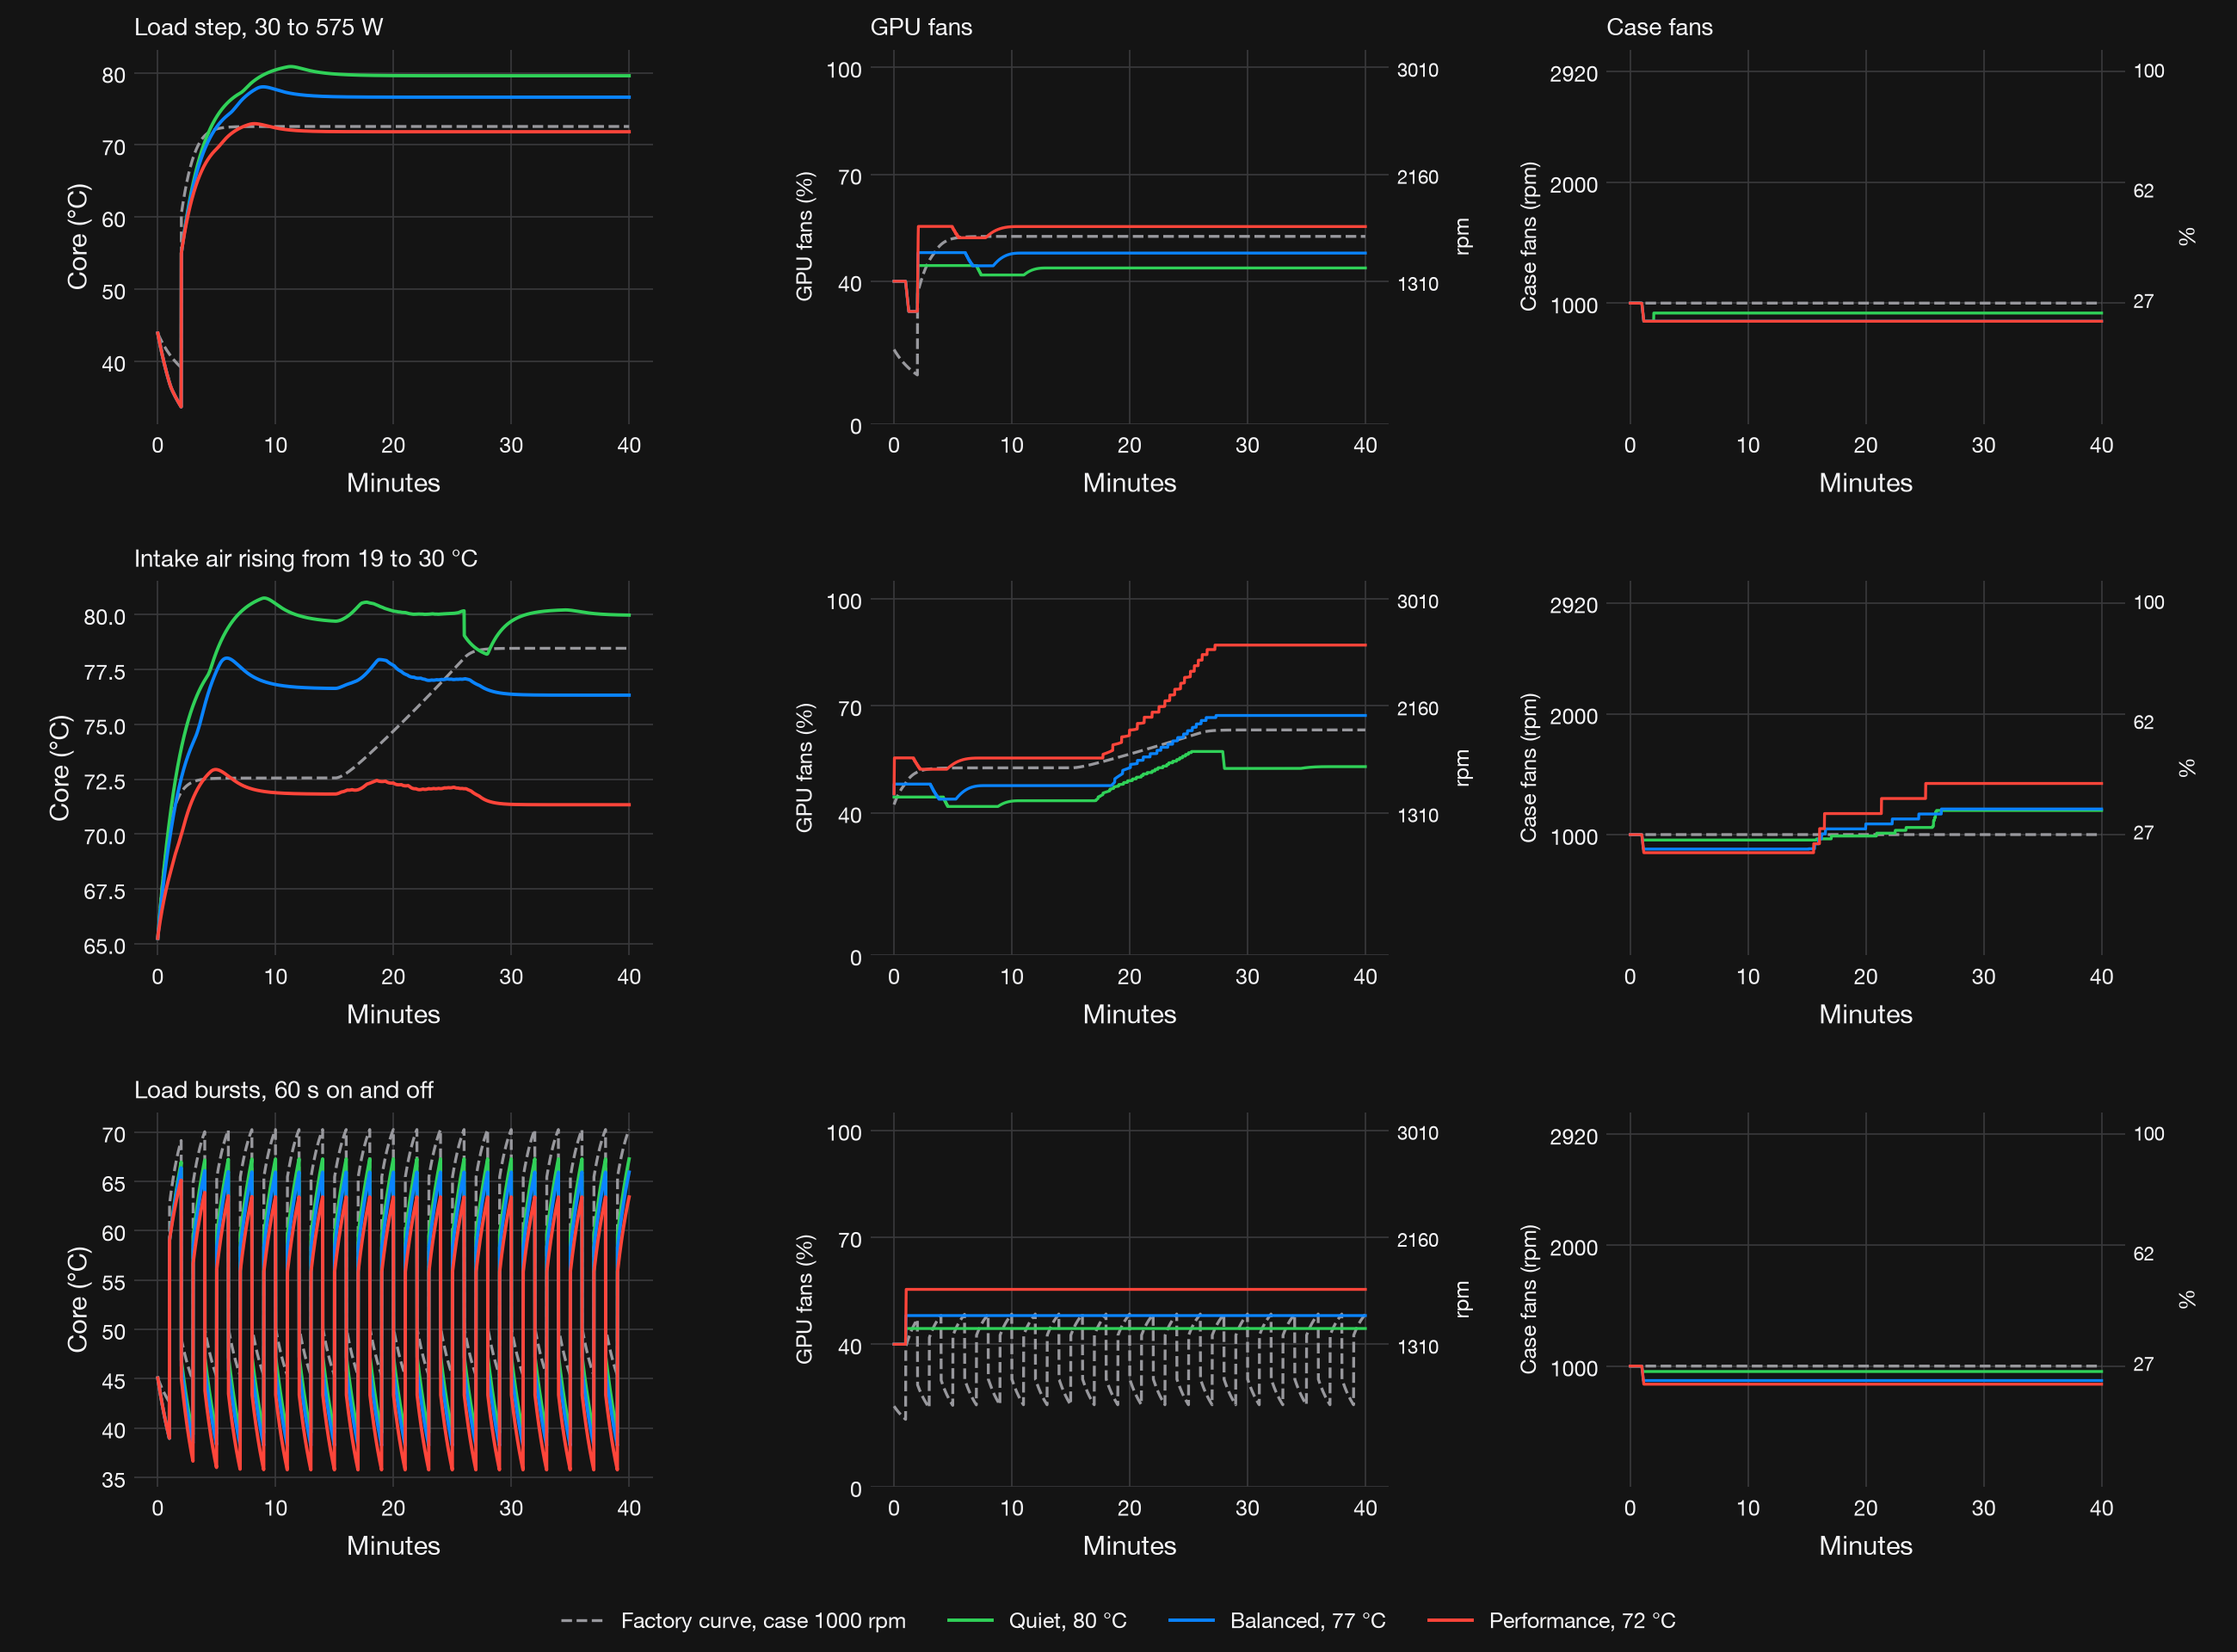
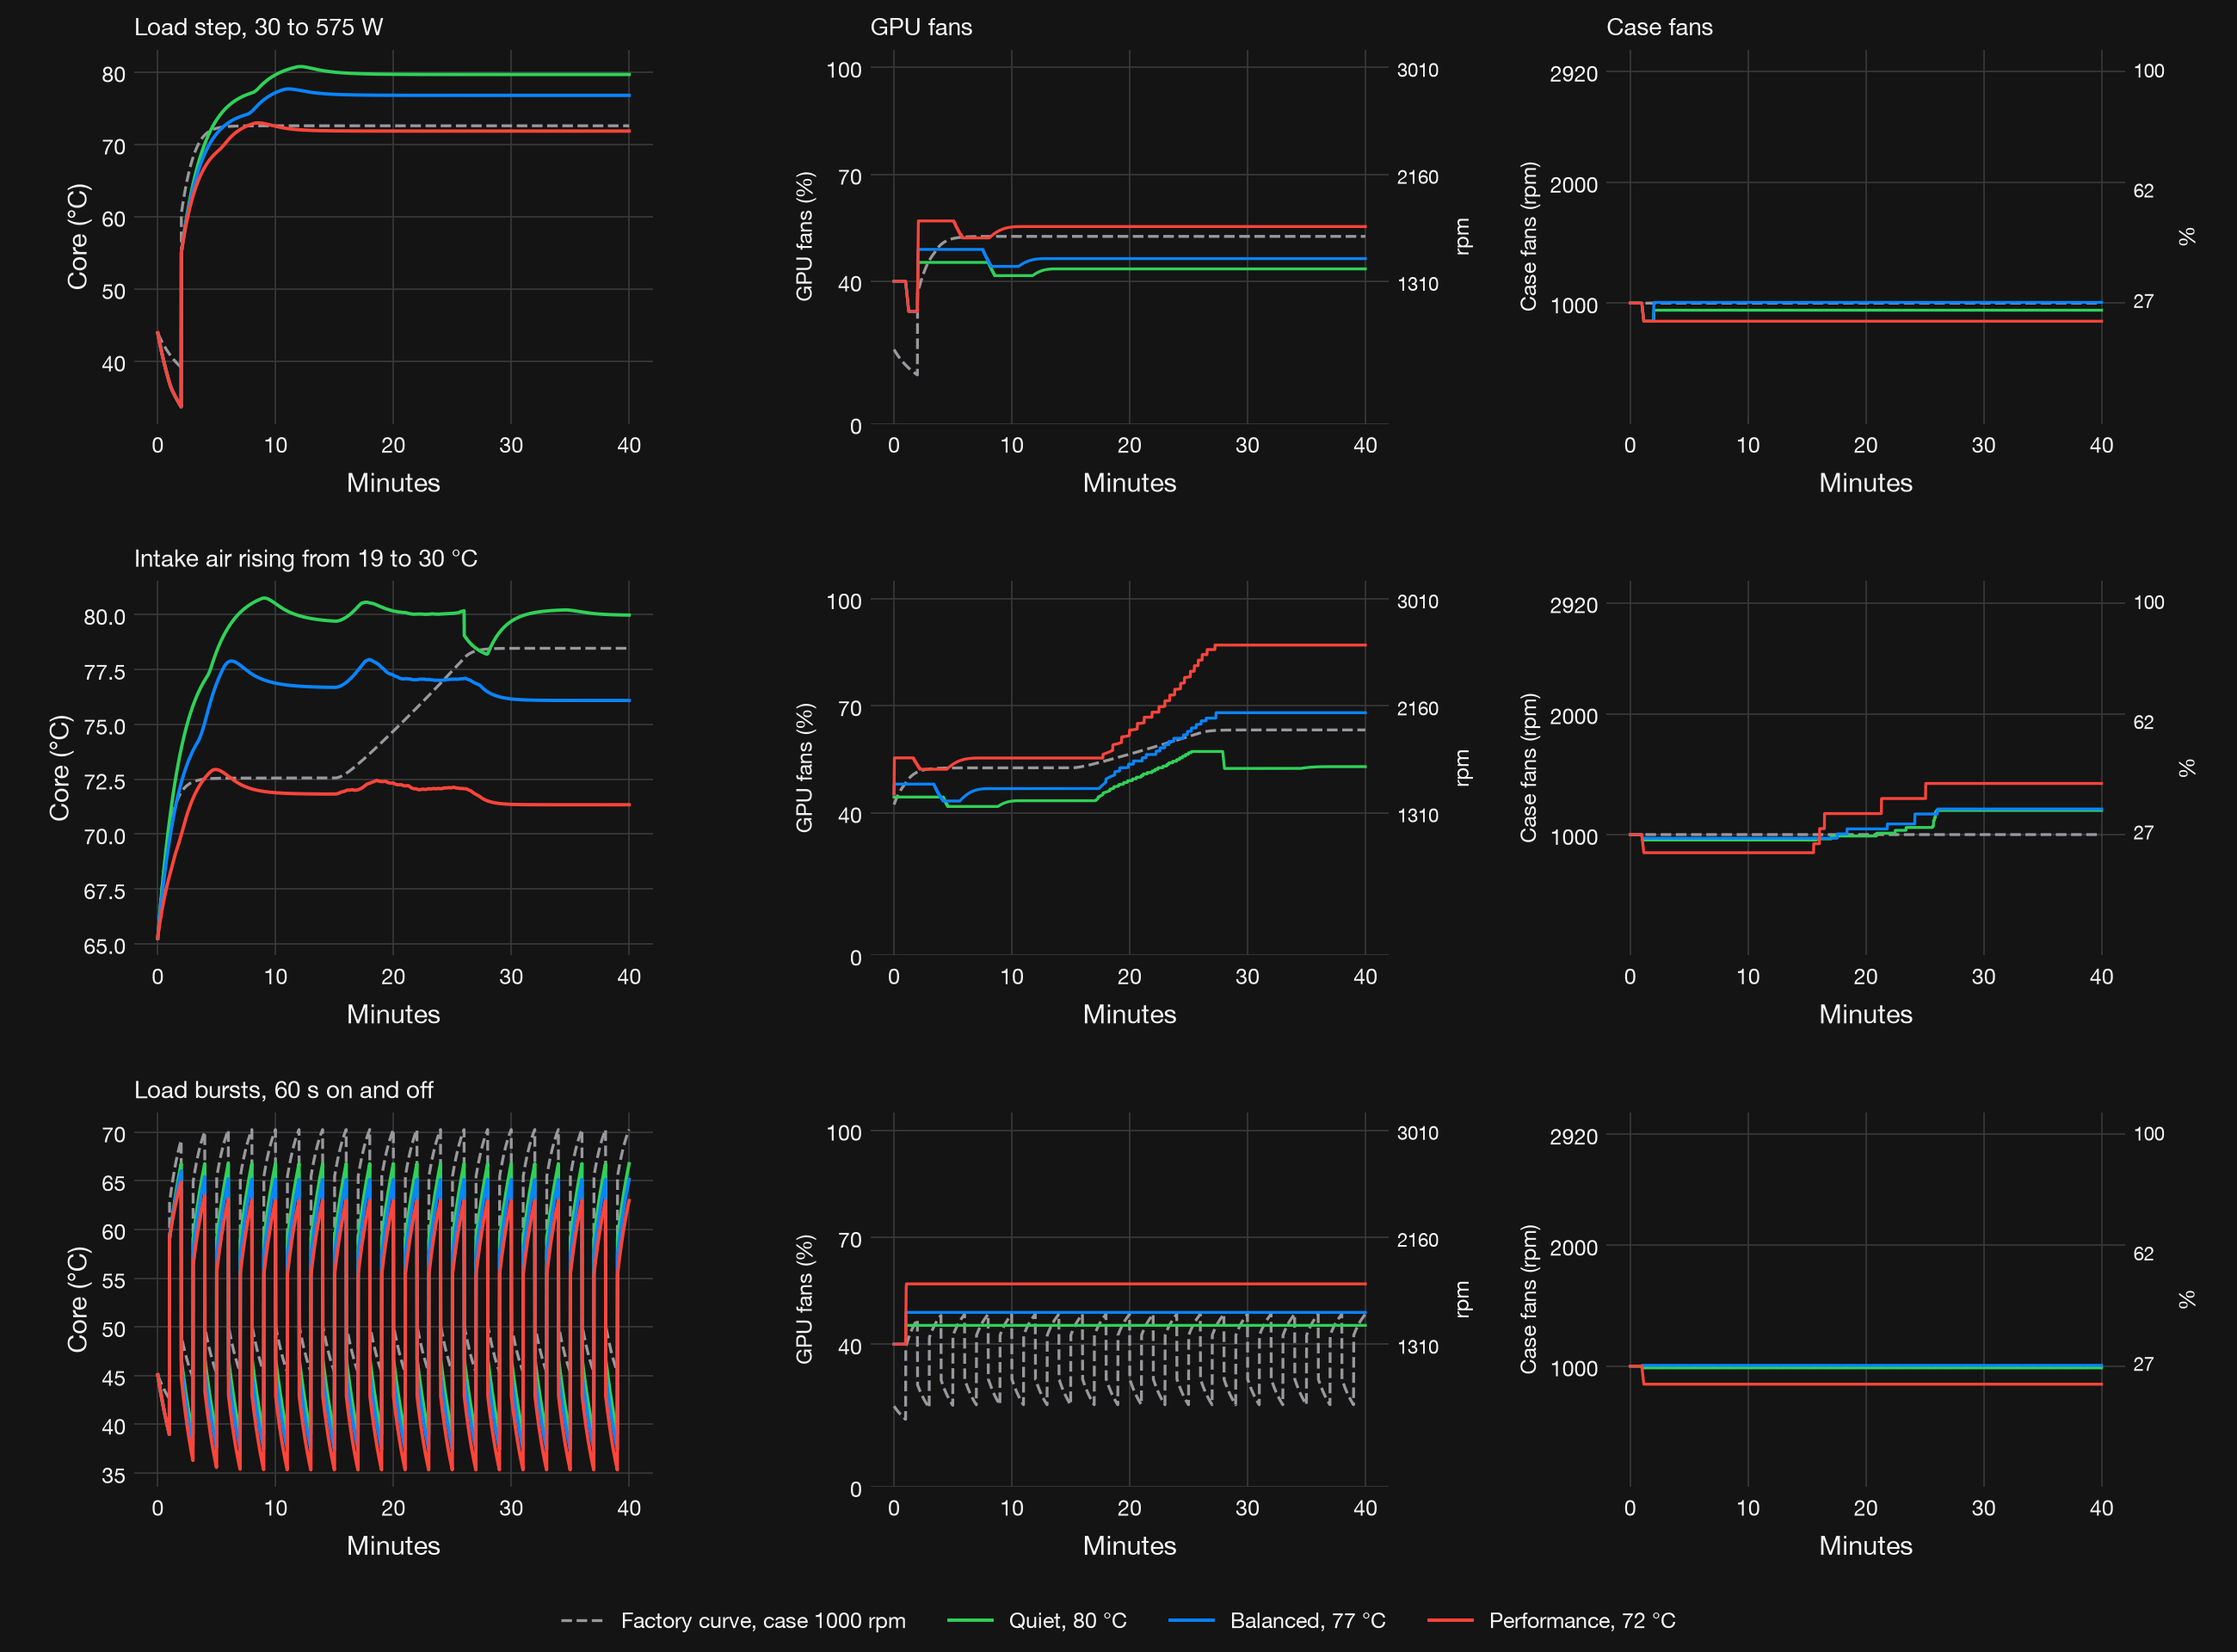
Controller sim: Balanced margin +0.3, post-step boost

diff --git a/scripts/controller_sim.py b/scripts/controller_sim.py
@@ -37,11 +37,12 @@ A_CARD, A_CASE = 38.0, 33.0                      # noise proxy offsets at 1000 r
 
 MODES = {   # target core °C, card / case noise ceilings (rpm), may lower the power limit
     "quiet":       dict(target=80.0, card_max=1800.0, case_max=1200.0, pl_cut=True),
-    "balanced":    dict(target=77.0, card_max=2300.0, case_max=1500.0, pl_cut=True),
+    "balanced":    dict(target=77.0, card_max=2300.0, case_max=1500.0, pl_cut=True, margin_extra=0.3),   # +0.3 °C: warm-intake scenario 0 s above target + 1 (2026-10-23)
     "performance": dict(target=72.0, card_max=CARD_MAX, case_max=CASE_MAX, pl_cut=False),
 }
 MEM_MAX, MEM_MARGIN = 100.0, 4.0
 TIN_TAU, FF_HYST_DB, UP_DEADBAND, DOWN_DEADBAND, HOLD_AFTER_UP = 60.0, 0.5, 0.0, 50.0, 60.0   # ctrl2 anti-pumping (2026-10-22)
+BOOST_MARGIN, BOOST_MIN_S = 1.0, 120   # transient boost after a load step: extra °C below target for the feedforward, minimum seconds
 
 
 # ---------------------------------------------------------------- plant
@@ -96,9 +97,10 @@ class Controller:
         self.N = DUTY_RPM(40); self.C = 1000.0; self.pl = 1.0
         self.i = 0.0; self.p_s = None; self.ff = (self.N, self.C, 1.0); self.cool_since = None; self.t = 0; self.p_last = 0.0; self.p_at = 0; self.pl_at = -999
         self.tin_f = None; self.up_at = {"N": -999, "C": -999}   # ctrl2: filtered intake for the feedforward, time of last up-ramp per fan group
+        self.boost_at = None   # transient boost (2026-10-23): load step > 20 % → fans to the optimum for the new power with an extra margin
 
-    def feedforward(self, P, Tin):
-        tgt = self.m["target"] - SS_MARGIN; best = None
+    def feedforward(self, P, Tin, extra=0.0):
+        tgt = self.m["target"] - SS_MARGIN - self.m.get("margin_extra", 0.0) - extra; best = None
         for C in np.linspace(800, self.m["case_max"], 18):
             for N in np.linspace(card_min(P, self.Pst), self.m["card_max"], 40):
                 core, mem = steady_ff(P, N, C, Tin)
@@ -124,11 +126,14 @@ class Controller:
     def step(self, core, mem, P_meas, Tin, dt=1.0):
         self.t += dt
         dem = P_meas / self.pl if P_meas >= 0.97 * self.pl * self.Pst else P_meas   # demand: a capped card would draw more without the cap
+        if self.p_s is not None and dem > 1.2 * self.p_s and self.t > 1: self.boost_at = self.t   # load step: transient boost (bursts keep p_s held → no re-trigger)
         if self.p_s is None or dem >= self.p_s: self.p_s, self.p_at = dem, self.t           # load estimate: up at once,
         elif dem >= 0.97 * self.p_s: self.p_at = self.t                                       # ctrl2: a near-peak burst renews the hold
         elif self.t - self.p_at > 300: self.p_s += (dem - self.p_s) * dt / 60                  # held 5 min, then down slowly (no pumping on bursty loads)
         self.tin_f = Tin if self.tin_f is None else self.tin_f + (Tin - self.tin_f) * dt / TIN_TAU   # ctrl2: intake low-pass (sensor noise flipped the optimum)
-        if self.t % 5 < dt or P_meas > self.p_last + 100: self.ff = self.keep_ff(self.feedforward(self.p_s, self.tin_f))   # load step: recompute now
+        if self.boost_at is not None and self.t - self.boost_at >= BOOST_MIN_S and core < self.m["target"] - 1: self.boost_at = None   # boost over: back to the quiet frontier (slow down-ramp)
+        if self.boost_at is not None: self.ff = self.feedforward(self.p_s, self.tin_f, BOOST_MARGIN)
+        elif self.t % 5 < dt or P_meas > self.p_last + 100: self.ff = self.keep_ff(self.feedforward(self.p_s, self.tin_f))   # load step: recompute now
         self.p_last = P_meas
         Nff, Cff, pl_t = self.ff
         e = core - self.m["target"]
